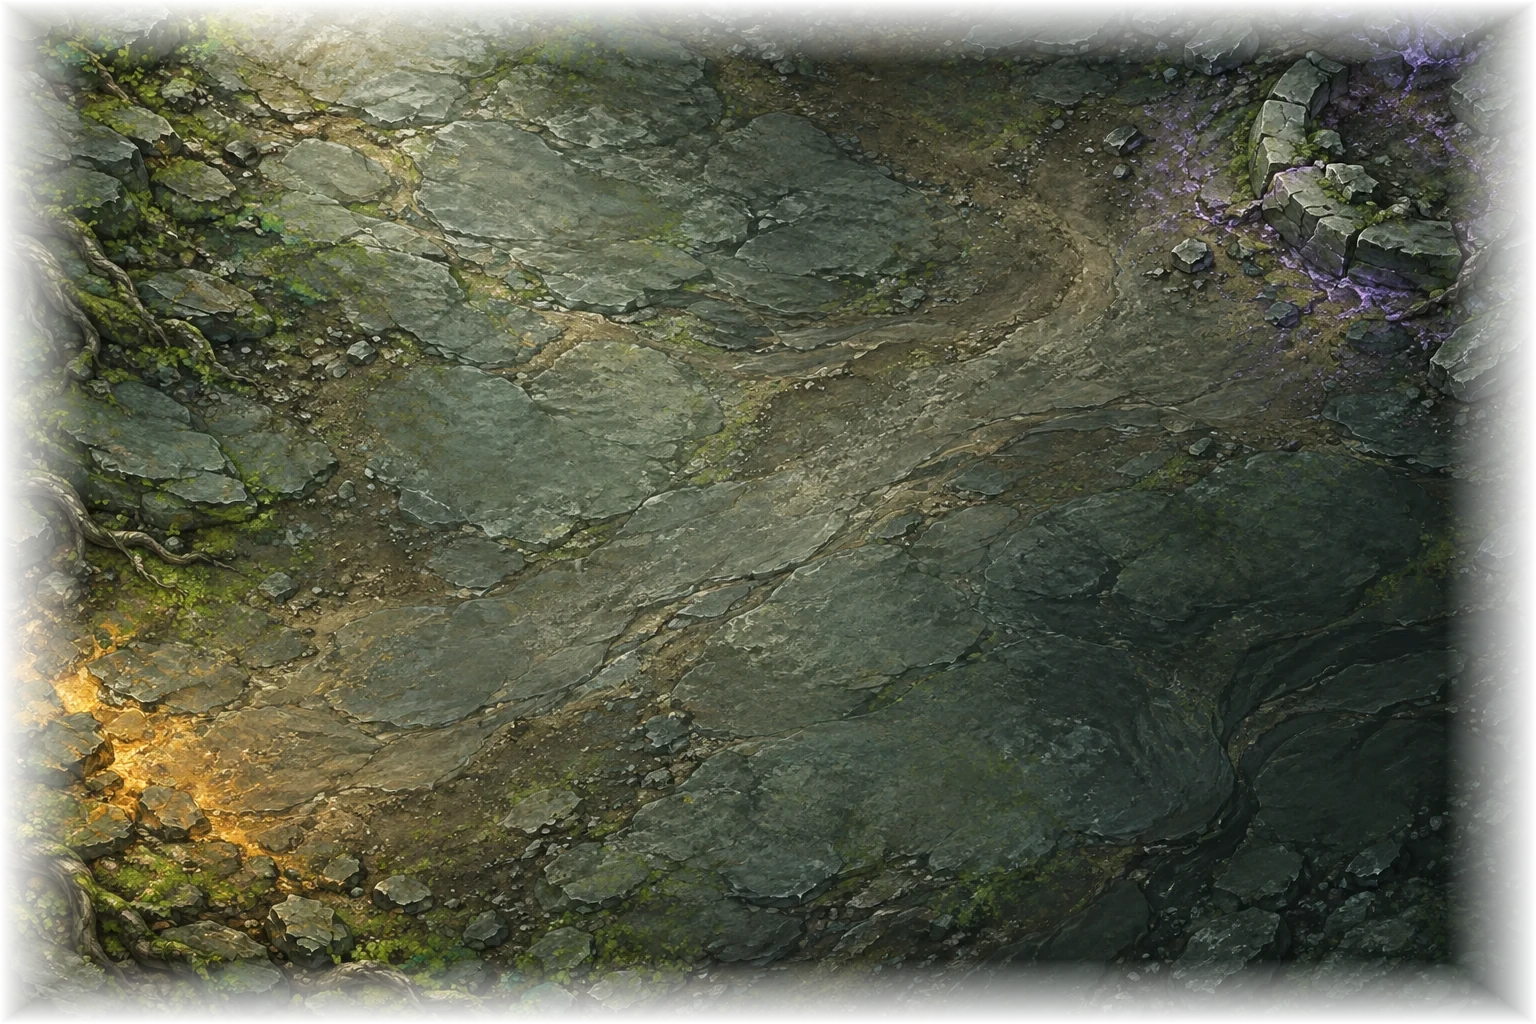
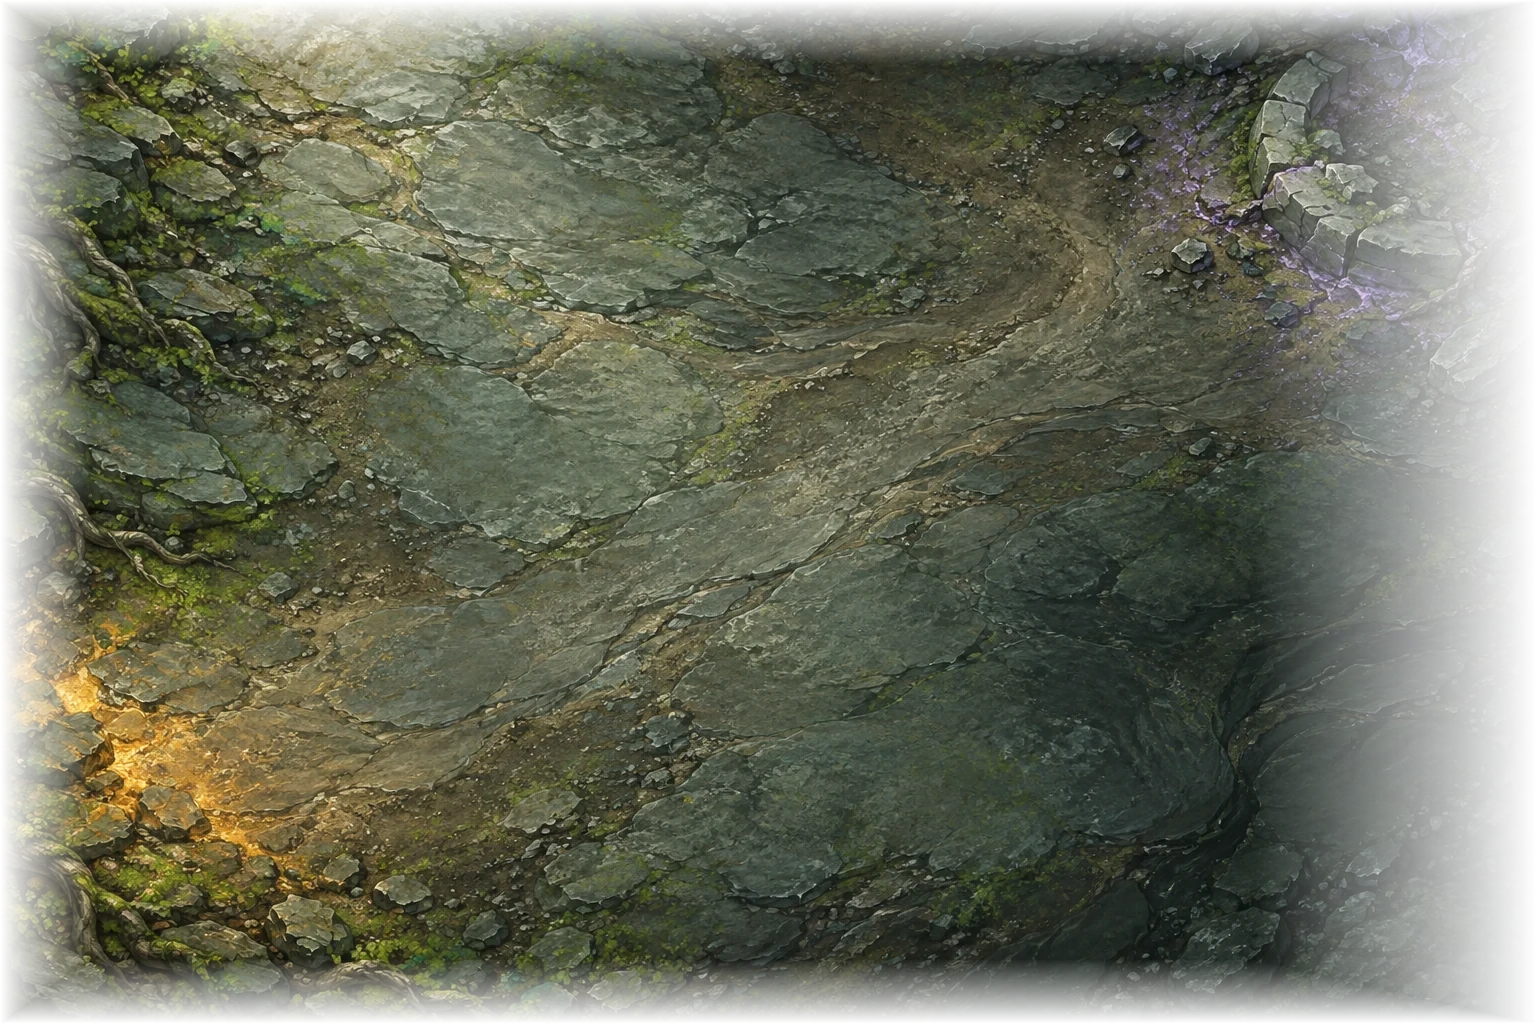
feat: extend cohesive ground language across all maps

Changed region(s): [[0.8125, 0.0, 1.0, 1.0]]

diff --git a/src/systems/CavernArea.ts b/src/systems/CavernArea.ts
@@ -6,7 +6,7 @@ import { CavernContinuation } from './CavernContinuation';
 import { WardenApproach } from './WardenApproach';
 import { WARDEN_PREPARATION } from '../config/wardenPreparation';
 import type { MovementBounds, Obstacle } from './Movement';
-import { createCavernGround } from '../visual/EnvironmentArt';
+import { createEnvironmentGround } from '../visual/EnvironmentArt';
 import { CavernEntryEnvironment } from '../visual/CavernEntryEnvironment';
 
 // One continuous authored Cavern; static art is captured once per section.
@@ -25,7 +25,9 @@ export class CavernArea {
   readonly wardenApproach: WardenApproach;
 
   constructor(scene: Phaser.Scene, deepPassageOpen = false, fragmentSeen = false, firstEchoSeen = false, wardenGateOpen = false) {
-    createCavernGround(scene, WARDEN_PREPARATION.cameraWidth);
+    // One illustrated stone substrate continues below the entry basin, every
+    // deeper pocket, the exterior approach and its baked scenery layers.
+    createEnvironmentGround(scene, WARDEN_PREPARATION.cameraWidth, 'cavern-ground', 0xb7c4b5);
     this.bounds = { ...CAVERN_BOUNDS, right: deepPassageOpen ? wardenGateOpen ? 6480 : WARDEN_PREPARATION.right : CAVERN_BOUNDS.right };
     if (!deepPassageOpen) this.obstacles.push(this.collapseObstacle);
     new CavernEntryEnvironment(scene, this.obstacles, this.collapseObstacle);

diff --git a/src/systems/CavernContinuation.ts b/src/systems/CavernContinuation.ts
@@ -51,6 +51,18 @@ export class CavernContinuation {
     mass(0x9ca994,0.14,[[4580,660],[4770,580],[4990,625],[5060,830],[4870,940],[4670,845]]);
     const layer = this.scene.add.renderTexture(tileX,200,1000,1000).setOrigin(0).setDepth(-9999).draw(floor.setAlpha(0.06),-tileX,-200);
     const painter = new EnvironmentPainter(this.scene,layer);
+    if (tileX === 4450) {
+      // The landscape opens here. Blend a muted living-soil material into the
+      // plateau silhouette; the cave floor remains visible through the throat.
+      const plateau = this.scene.make.graphics({ x: 0, y: 0 }, false);
+      plateau.fillStyle(0xffffff).fillPoints(groundContour([
+        {x:4380,y:595},{x:4560,y:400},{x:4830,y:365},{x:5100,y:405},
+        {x:5330,y:530},{x:5500,y:765},{x:5410,y:1060},{x:5160,y:1140},
+        {x:4840,y:1125},{x:4600,y:1030},{x:4400,y:925},
+      ]), true);
+      painter.ground('forest-ground', 0.34, plateau);
+      plateau.destroy();
+    }
     // Only quiet sediment patches here. The continuous substrate is underneath all tiles.
     const visible = (x: number, width: number) => x+width/2 >= tileX && x-width/2 <= tileX+1000;
     for(const [x,y,w,h] of [[2730,760,550,350],[3230,806,580,330],[3730,765,520,320],[4250,785,570,350],

diff --git a/src/visual/EnvironmentArt.ts b/src/visual/EnvironmentArt.ts
@@ -79,12 +79,17 @@ export function updateEnvironmentOcclusion(scene: Phaser.Scene, feet: { x: numbe
 
 // One stationary textured quad under every cache, including cache margins.
 // The material is authored offline; no runtime procedural floor or giant PNG.
-export function createCavernGround(scene: Phaser.Scene, width: number): void {
+export function createEnvironmentGround(
+  scene: Phaser.Scene,
+  width: number,
+  material: 'cavern-soil' | 'cavern-ground' | 'forest-ground' = 'cavern-soil',
+  tint = 0xb7c4b5,
+): void {
   // Keep the TileSprite backing canvas at 512 square, rather than allocating a
   // world-sized canvas. Inverse tile scale preserves 512 world units per repeat.
-  scene.add.tileSprite(0, 0, 512, 512, 'cavern-soil').setOrigin(0)
+  scene.add.tileSprite(0, 0, 512, 512, material).setOrigin(0)
     .setDisplaySize(width, 1500).setTileScale(512 / width, 512 / 1500)
-    .setDepth(-10001.5).setTint(0xb7c4b5).setName('continuous-cavern-ground');
+    .setDepth(-10001.5).setTint(tint).setName(`continuous-${material}`);
 }
 
 export function preloadEnvironment(scene: Phaser.Scene): void {

diff --git a/src/systems/ResonanceValley.ts b/src/systems/ResonanceValley.ts
@@ -1,6 +1,6 @@
 import Phaser from 'phaser';
 import { VALLEY, VALLEY_BORDERS, VALLEY_ROCKS } from '../config/valley';
-import { EnvironmentPainter, createCavernGround } from '../visual/EnvironmentArt';
+import { EnvironmentPainter, createEnvironmentGround } from '../visual/EnvironmentArt';
 import type { MovementBounds, Obstacle } from './Movement';
 import { distance, type Vec2 } from '../utils/math';
 
@@ -10,8 +10,7 @@ export class ResonanceValley {
   readonly obstacles: Obstacle[] = [...VALLEY_ROCKS, ...VALLEY_BORDERS].map(o => ({ ...o }));
   private readonly pulse: Phaser.GameObjects.Ellipse;
   constructor(scene: Phaser.Scene, recorded: boolean) {
-    createCavernGround(scene, VALLEY.cameraWidth);
-    (scene.children.getByName('continuous-cavern-ground') as Phaser.GameObjects.TileSprite).setTint(0xd4d7b9);
+    createEnvironmentGround(scene, VALLEY.cameraWidth, 'forest-ground', 0xb7c2a7);
     for (const tileX of [0, 1500]) {
       const layer = scene.add.renderTexture(tileX, 200, 1500, 1200).setOrigin(0).setDepth(-10000);
       const painter = new EnvironmentPainter(scene, layer);

diff --git a/src/systems/WardenArena.ts b/src/systems/WardenArena.ts
@@ -1,6 +1,6 @@
 import Phaser from 'phaser';
 import { WARDEN_ARENA, WARDEN_ARENA_FOOTPRINTS, WARDEN_ARENA_MINERAL_BASES } from '../config/wardenArena';
-import { EnvironmentPainter, groundContour, createCavernGround, trackEnvironmentOcclusion } from '../visual/EnvironmentArt';
+import { EnvironmentPainter, groundContour, createEnvironmentGround, trackEnvironmentOcclusion } from '../visual/EnvironmentArt';
 import type { MovementBounds, Obstacle } from './Movement';
 
 // Painted custodial basin behind the guardian threshold. Static material is
@@ -18,7 +18,7 @@ export class WardenArena {
 
   constructor(private readonly scene: Phaser.Scene, resolved = false) {
     scene.add.rectangle(1100, 750, 2200, 1500, 0x102329).setDepth(-10002);
-    createCavernGround(scene, 2200);
+    createEnvironmentGround(scene, 2200, 'cavern-ground', 0x899891);
     this.bake();
     const entrance = scene.add.image(520, 890, 'guardian-lintel-open').setOrigin(0.5, 0.95)
       .setDisplaySize(260, 145).setDepth(890).setTint(0xabb9a8);

diff --git a/src/systems/Arena.ts b/src/systems/Arena.ts
@@ -26,9 +26,11 @@ export class Arena {
     const floor = graphics.find(object => object.depth === -10000);
     if (floor) {
       const layer = this.scene.add.renderTexture(0, 0, WORLD_WIDTH, WORLD_HEIGHT)
-        .setOrigin(0).setDepth(floor.depth).draw(floor);
+        .setOrigin(0).setDepth(floor.depth).draw(floor.setAlpha(0.72));
       const painter = new EnvironmentPainter(this.scene, layer);
-      painter.ground('forest-ground', 0.19);
+      // Let the painted soil read as a material plane under the existing
+      // clearings and paths, instead of a barely visible noise overlay.
+      painter.ground('forest-ground', 0.42);
       for (const [x, y, w, h] of [[360,450,330,135],[1030,640,410,160],[1510,1010,340,135],[1900,420,310,145]]) {
         painter.contact(x, y, w, h, 0.16);
       }

diff --git a/src/systems/WardenApproach.ts b/src/systems/WardenApproach.ts
@@ -108,6 +108,10 @@ export class WardenApproach {
     // and soft contact only, avoiding another rectangular patch of ground.
     const layer = this.scene.add.renderTexture(5350, 200, 1400, 1000).setOrigin(0).setDepth(-9998);
     const painter = new EnvironmentPainter(this.scene, layer);
+    const exteriorSoil = this.scene.make.graphics({ x: 0, y: 0 }, false);
+    exteriorSoil.fillStyle(0xffffff).fillRect(5450, 200, 1300, 1000);
+    painter.ground('forest-ground', 0.34, exteriorSoil);
+    exteriorSoil.destroy();
     for (const [x,y,w,h] of [[5540,775,475,315],[5810,780,485,320],[6140,782,535,345]]) {
       painter.sediment(x,y,w,h,0x969175,0.32);
     }

diff --git a/scripts/prepare-cavern-entry-floor.py b/scripts/prepare-cavern-entry-floor.py
@@ -14,7 +14,7 @@ OUTPUT = ROOT / 'public/assets/visual/environment/cavern-entry-floor.webp'
 def edge_alpha(x: int, y: int, width: int, height: int) -> int:
     # Feather each edge in a narrow band. The right fade joins the deeper floor
     # substrate before the next cavern section; top/bottom disappear under rims.
-    horizontal = min(1.0, x / 90, (width - 1 - x) / 90)
+    horizontal = min(1.0, x / 90, (width - 1 - x) / 280)
     vertical = min(1.0, y / 64, (height - 1 - y) / 64)
     return round(255 * max(0.0, min(horizontal, vertical)))
 

diff --git a/docs/environmental-cohesion/README.md b/docs/environmental-cohesion/README.md
@@ -1,0 +1,31 @@
+# Coes?o ambiental ? 0.1.51
+
+## Objetivo
+
+Estender por todas as regi?es a integra??o de ch?o, composi??o e materiais usada na C?mara de Refer?ncia e na entrada da Cavern. A gram?tica visual ? compartilhada; o material muda com cada bioma.
+
+## Aplica??o por regi?o
+
+| Regi?o | Integra??o aplicada |
+| --- | --- |
+| Forest | Solo ilustrado mais presente no bake existente, mantendo clareiras, caminhos e vegeta??o. |
+| Entrada da Cavern | Bacia ilustrada preservada; borda direita suavizada para misturar com a ?rea profunda. |
+| Cavern, Deep Cavern e t?neis | Substrato ilustrado de pedra cont?nuo sob todas as composi??es e bakes. |
+| Sa?da e Exterior | Solo vegetal aplicado pela silhueta do plat? e integrado ? composi??o est?tica. |
+| Warden Approach | Continua??o do solo exterior sob a regi?o j? composta. |
+| Vale da Resson?ncia | Mesmo material de solo exterior, com tonalidade adequada ao Vale. |
+| Arena do Warden | Substrato de pedra antiga com tonalidade mais escura. |
+
+Assim, a mesma l?gica de grounding atravessa o jogo sem pintar cada bioma da mesma cor. A Forest continua aberta e vegetal; a Cavern continua mineral, com ra?zes e tecnologia antiga; o Exterior e o Vale s?o mais vivos; a arena preserva uma leitura subterr?nea.
+
+## Implementa??o e custo
+
+`createEnvironmentGround` adiciona uma `TileSprite` estacion?ria usando texturas j? carregadas. A Forest continua sendo bakeada uma vez. O piso vegetal do Exterior ? aplicado ? m?scara do plat? existente, evitando um ret?ngulo sobre a sa?da rochosa. Props, sombras e detalhes continuam nos bakes/RenderTextures j? existentes.
+
+O piso da entrada ? o asset aprovado preparado offline; seu fade foi ampliado na borda que encontra as regi?es profundas. N?o foram gerados assets novos. Colis?es, footprints, limites, spawns, c?mera e gameplay n?o mudaram.
+
+## Revis?o visual
+
+`map-review.png` re?ne capturas do Chrome headless em 1280?720 da Forest, entrada da Cavern, duas regi?es profundas, Exterior, Approach, Vale e arena do Warden. A navega??o visual das cenas foi conferida e n?o houve erros de JavaScript ou de console durante as capturas.
+
+As capturas confirmam carregamento, materiais e continuidade visual em cada mapa; n?o substituem playtest humano em movimento. Ainda vale observar no jogo a repeti??o do tile em percursos longos e a mistura da sa?da da Cavern com o Exterior.

diff --git a/docs/technical-decisions.md b/docs/technical-decisions.md
@@ -296,6 +296,12 @@
 - O backplate usa uma derivação alfa offline do piso existente. Uma faixa estreita nas bordas mistura a pintura com `cavern-soil`; não há tiling do backplate nem chão de retângulo aparente. Props continuam em bake estático e os poucos corpos elevados seguem como Images para foot sorting.
 - Nenhum footprint, limite, spawn, POI, passagem ou regra de combate foi alterado. A aplicação é limitada à primeira sala; Deep Cavern, exterior, Vale e Forest conservam o ambiente que já tinham. A avaliação final de autenticidade requer playtest visual.
 
+## Ground language across regions — 0.1.51
+
+- A linguagem aprovada de piso ilustrado, massas de material, composição baked e caminho legível foi estendida sem repetir o mesmo material em todos os biomas. A entrada da Cavern mantém o backplate; todas as suas áreas usam o substrato pintado de pedra existente; os trechos exteriores e o Vale recebem solo vegetal; Forest usa seu próprio chão ilustrado com presença maior; a arena do Warden recebe pedra subterrânea pintada.
+- A transição para o Exterior usa o mesmo asset de solo aplicado por máscara na composição estática já existente. Não há novo cenário por frame nem asset de imagem gerado nesta etapa. O backplate e os materiais são imagens; props seguem no bake/cache atual.
+- A mudança só altera camadas visuais/de terreno. Não muda dimensões, posições físicas, colisões, spawns, gameplay ou identidade narrativa. A revisão por capturas em Chrome cobriu cada região e não registrou erros; repetição de textura em percurso longo e a mistura Cavern/Exterior ainda pedem playtest humano.
+
 ## Braços direcionais e sabre pintado, 0.1.49
 
 - O teste humano encontrou que os braços de 0.1.48 mantinham postura e sobreposição frontal quando o corpo virava de costas. `WarriorArms` projeta ombros/pegada por vista, articula ambos os cotovelos e ordena membros/arma atrás do tronco nas costas; na lateral, braço distante fica atrás e próximo fica à frente. As duas mãos seguem os pivots contínuos existentes do sabre. [Comparação e QA](warrior-arm-pass/).

diff --git a/docs/cavern-entry-environment/README.md b/docs/cavern-entry-environment/README.md
@@ -38,9 +38,10 @@ python scripts/prepare-cavern-entry-floor.py
 O script lê `public/assets/experiments/quality-reference/basin-floor.webp` e
 grava `public/assets/visual/environment/cavern-entry-floor.webp`.
 
-## Escopo e revisão visual
+## Histórico e revisão visual
 
-Esta aplicação corresponde à primeira sala descrita no README da Referência de
-Qualidade. Deep Cavern, exterior e Vale conservam suas composições atuais. O
-próximo critério é visual: percorrer a descida, olhar a ligação entre o salão e
-o túnel, e confirmar que os footprints existentes continuam fáceis de entender.
+Em 0.1.50, a aplicação se limitava à primeira sala descrita no README da
+Referência de Qualidade. Em 0.1.51, a mesma gramática de materiais foi ampliada
+para toda a Cavern e as bases ambientais de Forest, Exterior, Vale e arena do
+Warden; esta mudança mantém as imagens e colisões próprias da sala inicial.
+Veja o escopo completo em [Environmental Cohesion](../environmental-cohesion/).

diff --git a/docs/quality-reference/README.md b/docs/quality-reference/README.md
@@ -11,6 +11,10 @@
 > base recebeu uma transição alfa estreita para se misturar ao solo contínuo
 > na descida profunda. Veja [Cavern Entry Environment](../cavern-entry-environment/).
 
+> Atualização 0.1.51: a linguagem de terreno foi estendida por todas as regiões
+> jogáveis: Forest, Cavern completa, Exterior, Vale e arena do Warden. Cada
+> bioma conserva seu material próprio. Veja [Environmental Cohesion](../environmental-cohesion/).
+
 ## Abrir e comparar
 
 Na mesma URL em que o jogo roda, abra **`/quality-reference.html`**.
